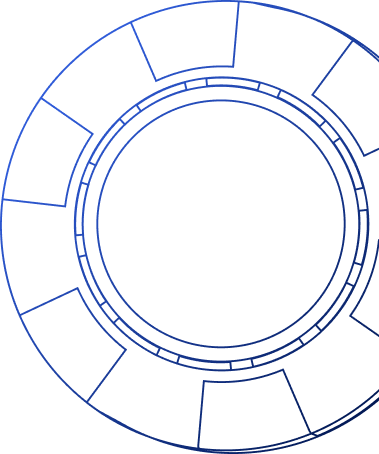
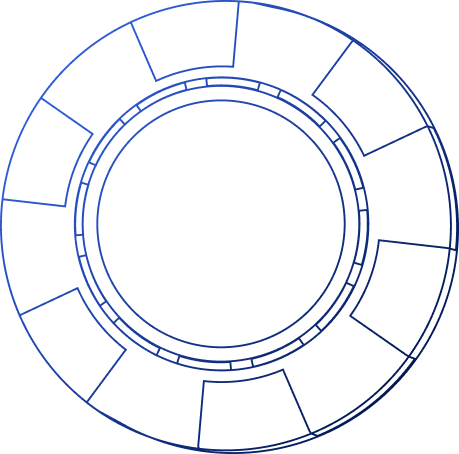
fix

diff --git a/src/views/Home.vue b/src/views/Home.vue
@@ -4165,7 +4165,7 @@ export default {
 
     .third_figure {
       position: absolute;
-      right: 20%;
+      right: 30%;
       top: 30px;
     }
 
